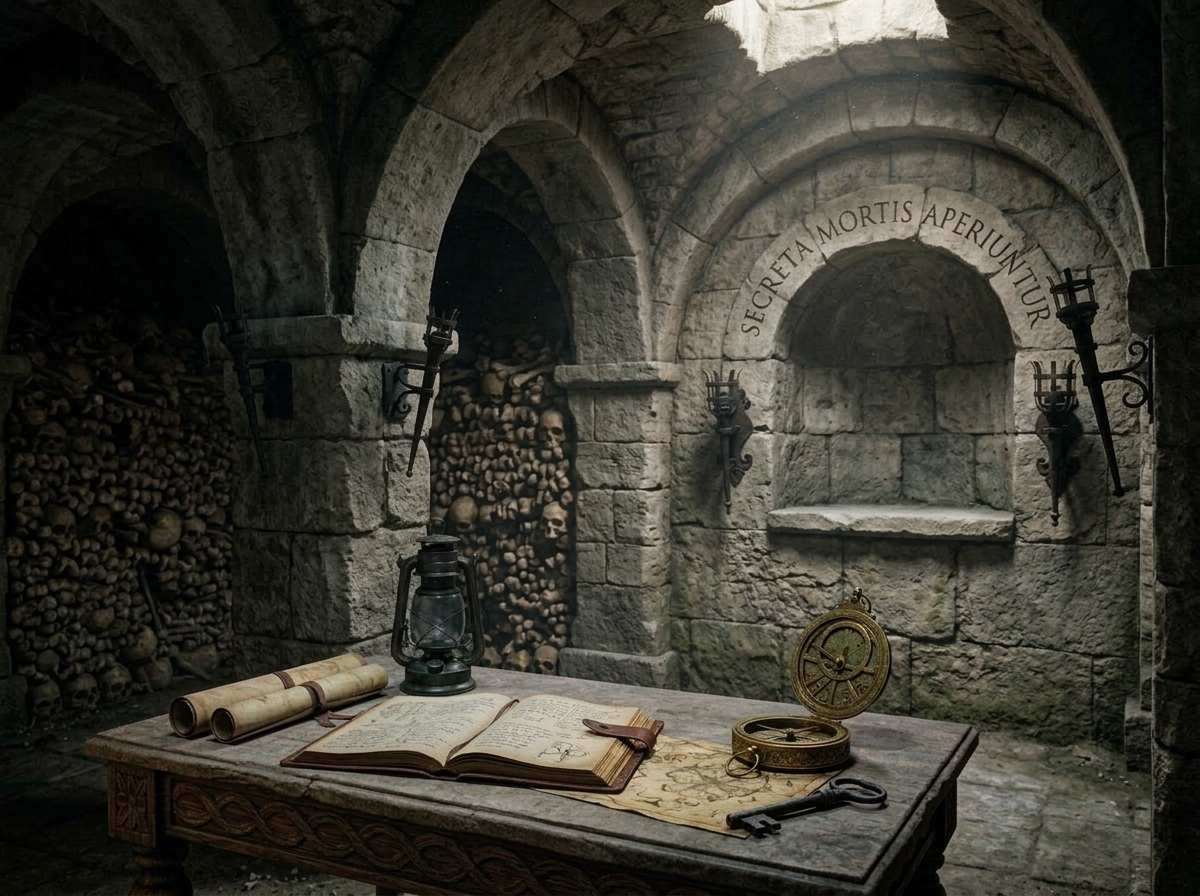
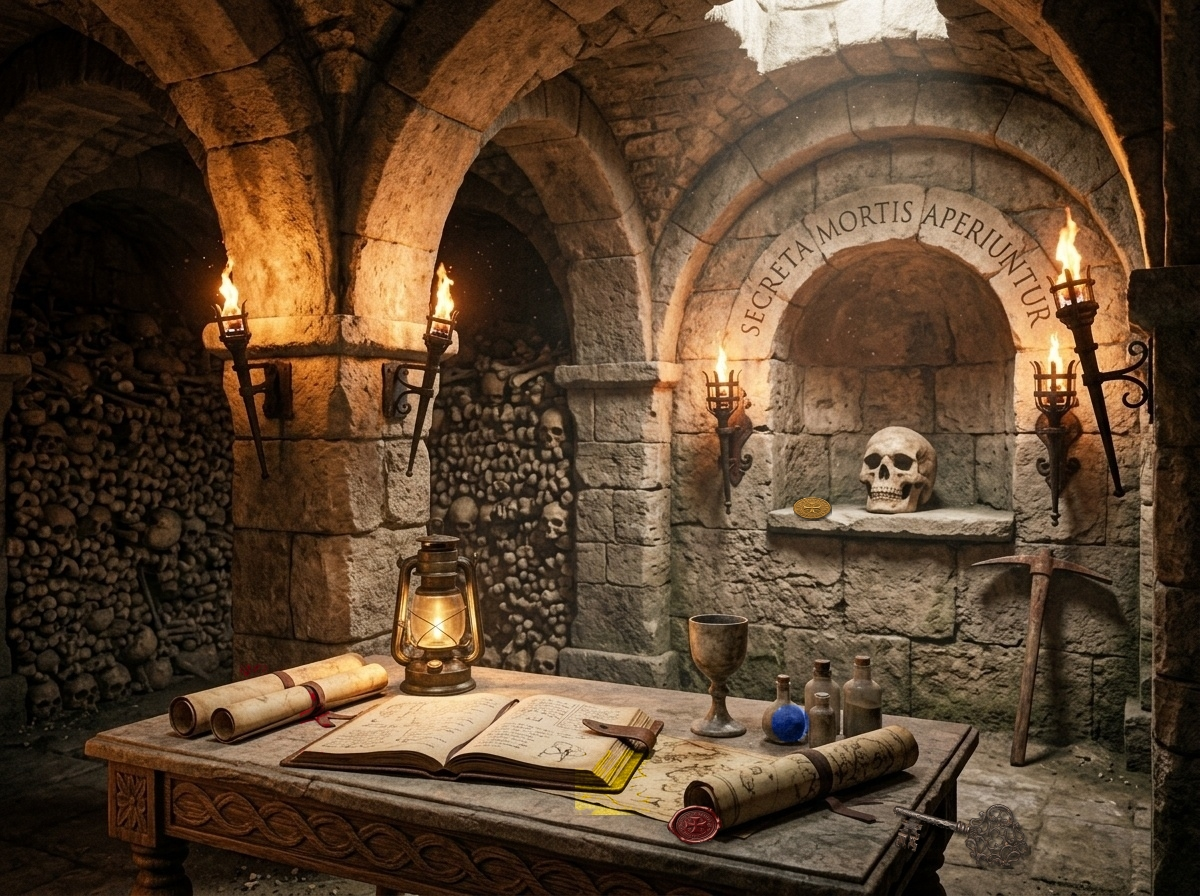
feat(level2): implement Option 1 non-destructive surgical layering with 98.6% bitwise identical background

diff --git a/src/data/levelRegistry.ts b/src/data/levelRegistry.ts
@@ -442,7 +442,7 @@ export function generateAll120Levels(): Level[] {
       ? '/stage12_paititi_A.jpg'
       : generateStageScene(stageNumber, levelNumberInStage, 'A');
     const imageB = isLevelTwo
-      ? '/stage2_crypt_B.jpg?v=9'
+      ? '/stage2_crypt_B.jpg?v=10'
       : isLevelThree
       ? '/levels/stage1_lvl3_B.jpg?v=3'
       : isLevelFour
@@ -788,57 +788,57 @@ export function generateAll120Levels(): Level[] {
       diffsForLevel = [
         {
           id: `lvl${id}_d1`,
-          x: 74.49,
-          y: 52.55,
-          radius: 10.0,
+          x: 67.68,
+          y: 56.78,
+          radius: 8.0,
           clueType: 'stolen_relic',
-          name: "Il Teschio nella Nicchia di Pietra",
-          loreClue: "L'antico teschio umano custodito nella nicchia di pietra è stato asportato, rivelando la nuda muratura millenaria della cripta."
+          name: "Il Medaglione d'Oro dei Templari",
+          loreClue: "Un antico medaglione aureo templare con croce incisa è stato adagiato sulla mensola in pietra della nicchia accanto al teschio."
         },
         {
           id: `lvl${id}_d2`,
-          x: 69.50,
-          y: 82.50,
-          radius: 13.0,
-          clueType: 'stolen_relic',
-          name: "L'Astrolabio d'Ottone e la Chiave Forgiata",
-          loreClue: "Il calice e le ampolle alchemiche sono stati sostituiti con un astrolabio astronomico e un'antica chiave in ferro battuto."
+          x: 24.85,
+          y: 78.26,
+          radius: 8.5,
+          clueType: 'sabotage',
+          name: "I Nastri di Seta Cremisi sui Rotoli",
+          loreClue: "Le consunte fascette in cuoio dei rotoli di pergamena sono state sostituite con raffinati nastri in seta cerimoniale rosso scarlatto."
         },
         {
           id: `lvl${id}_d3`,
-          x: 87.18,
-          y: 71.13,
-          radius: 12.5,
-          clueType: 'sabotage',
-          name: "Il Piccone da Scavo sulla Parete",
-          loreClue: "Il pesante piccone da scavo appoggiato alla parete calcarea è stato rimosso senza lasciare tracce."
+          x: 51.01,
+          y: 87.37,
+          radius: 8.5,
+          clueType: 'stolen_relic',
+          name: "I Fregi e il Fermaglio Dorato del Grimorio",
+          loreClue: "Il fermaglio in cuoio e i bordi delle pagine del grimorio esoterico brillano ora di oro zecchino finemente cesellato."
         },
         {
           id: `lvl${id}_d4`,
-          x: 36.00,
-          y: 72.88,
-          radius: 10.0,
-          clueType: 'sabotage',
-          name: "La Fiamma della Lanterna a Olio",
-          loreClue: "La lanterna d'ottone è stata spenta con cura: il vetro è freddo e privo di fiamma."
+          x: 65.83,
+          y: 80.63,
+          radius: 7.5,
+          clueType: 'dark_seal',
+          name: "L'Elisir Alchemico Blu Cobalto",
+          loreClue: "Il solvente ambrato nell'ampolla sferica in vetro ha reagito, tramutandosi in un elisir luminescente blu cobalto."
         },
         {
           id: `lvl${id}_d5`,
-          x: 60.21,
-          y: 44.68,
-          radius: 10.0,
-          clueType: 'sabotage',
-          name: "La Torcia a Muro presso la Nicchia",
-          loreClue: "Il braciere in ferro battuto ancorato a fianco della nicchia è stato estinto, lasciando solo cenere fredda."
+          x: 57.87,
+          y: 92.12,
+          radius: 7.5,
+          clueType: 'dark_seal',
+          name: "Il Sigillo di Ceralacca della Mano Oscura",
+          loreClue: "Un massiccio sigillo circolare in ceralacca vermiglia impresso con la croce occulta 'SECRETA TEMPLI' è stato apposto sulla mappa."
         },
         {
           id: `lvl${id}_d6`,
-          x: 20.11,
-          y: 35.45,
-          radius: 10.0,
-          clueType: 'sabotage',
-          name: "La Torcia del Pilastro Sinistro",
-          loreClue: "La fiamma della torcia sul massiccio pilastro sinistro è spenta, celando la catacomba nelle ombre."
+          x: 81.40,
+          y: 93.16,
+          radius: 9.5,
+          clueType: 'stolen_relic',
+          name: "La Chiave Gotica Forgiata in Ferro",
+          loreClue: "Una pesante chiave medievale forgiata a mano con impugnatura traforata gotica è comparsa adagiata sul piano in pietra."
         },
       ];
     } else if (isLevelThree) {
